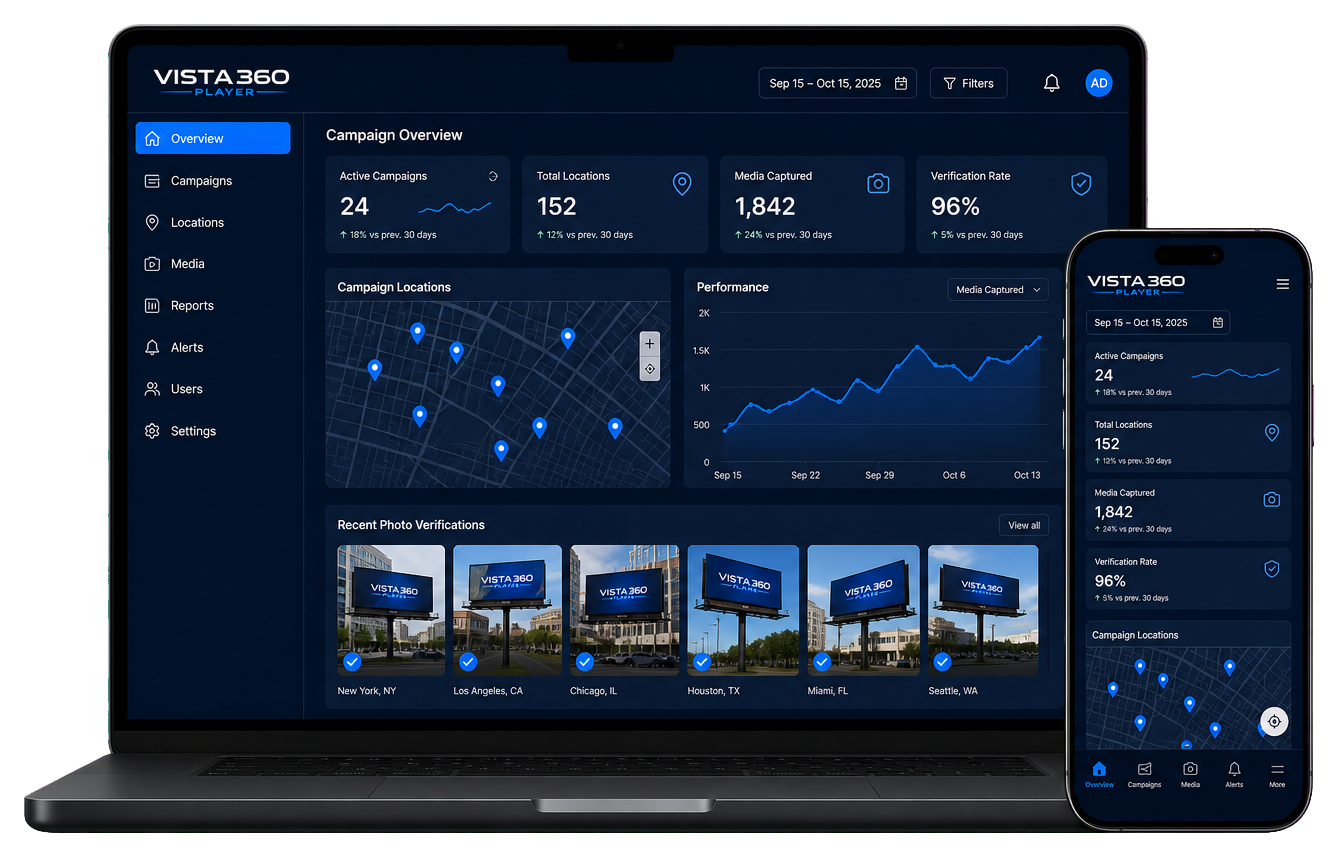
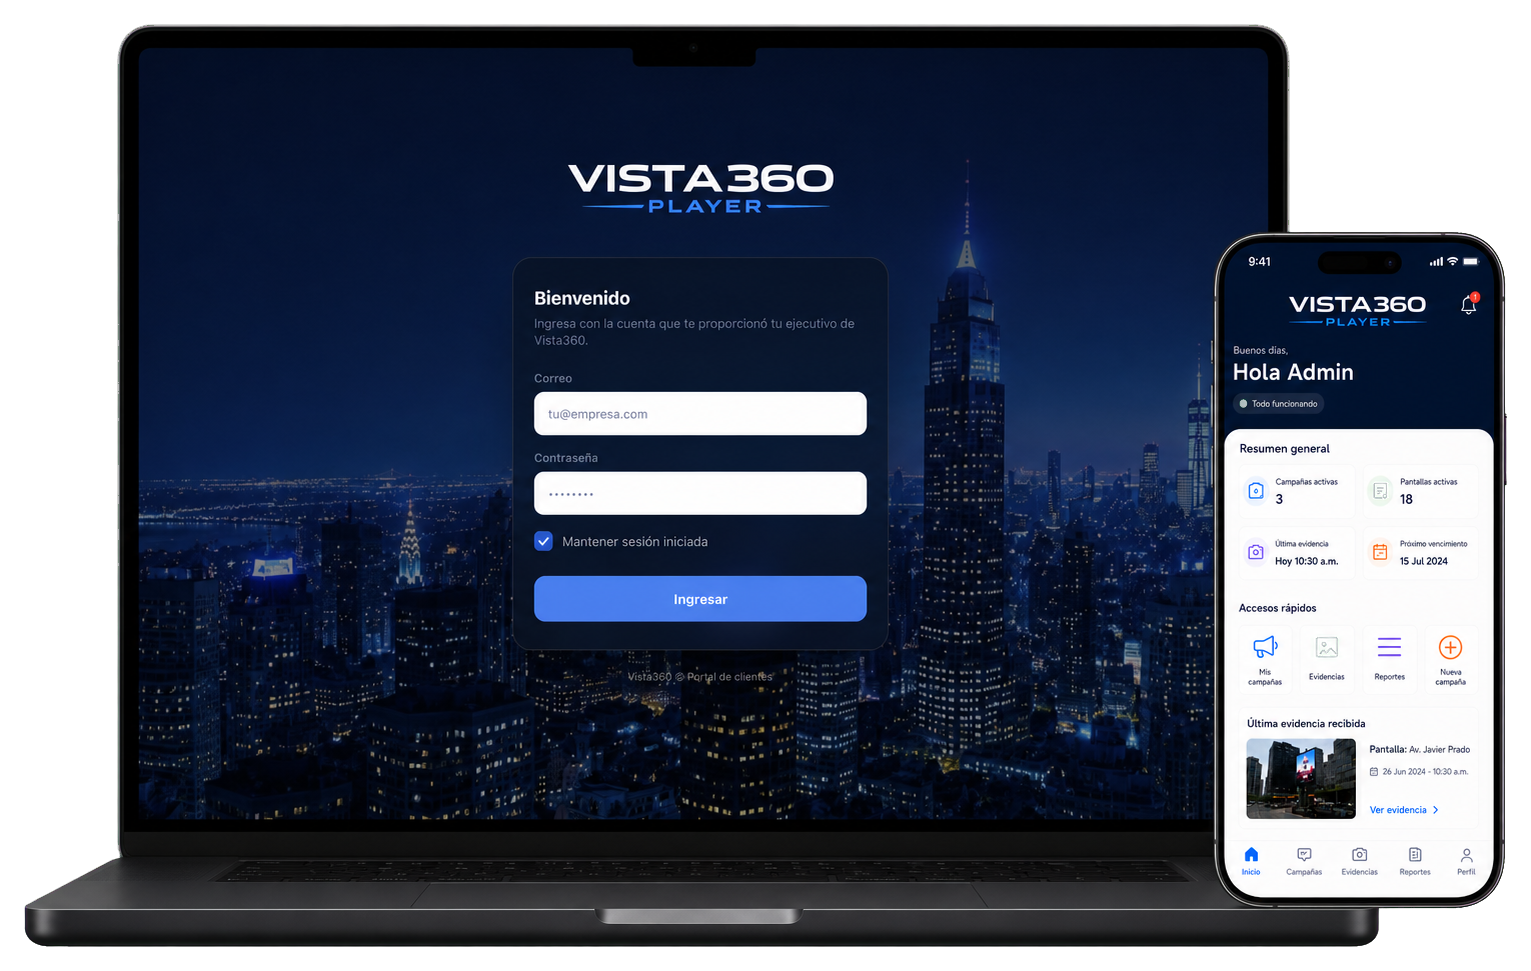
Use real Player screens in device showcase

diff --git a/index-home.html b/index-home.html
@@ -7674,7 +7674,7 @@
         </div>
 
         <div class="v-player-next__visual" data-reveal>
-          <img class="v-player-next__devices" src="panels/vista360-player-devices-v1.png" width="1339" height="857" loading="lazy" decoding="async" alt="VISTA360 Player funcionando en una MacBook Pro y un iPhone Pro Max">
+          <img class="v-player-next__devices" src="panels/vista360-player-devices-v1.png" width="1531" height="971" loading="lazy" decoding="async" alt="VISTA360 Player funcionando en una MacBook Pro y un iPhone Pro Max">
         </div>
 
         <div class="v-player-next__benefits" id="player-features">